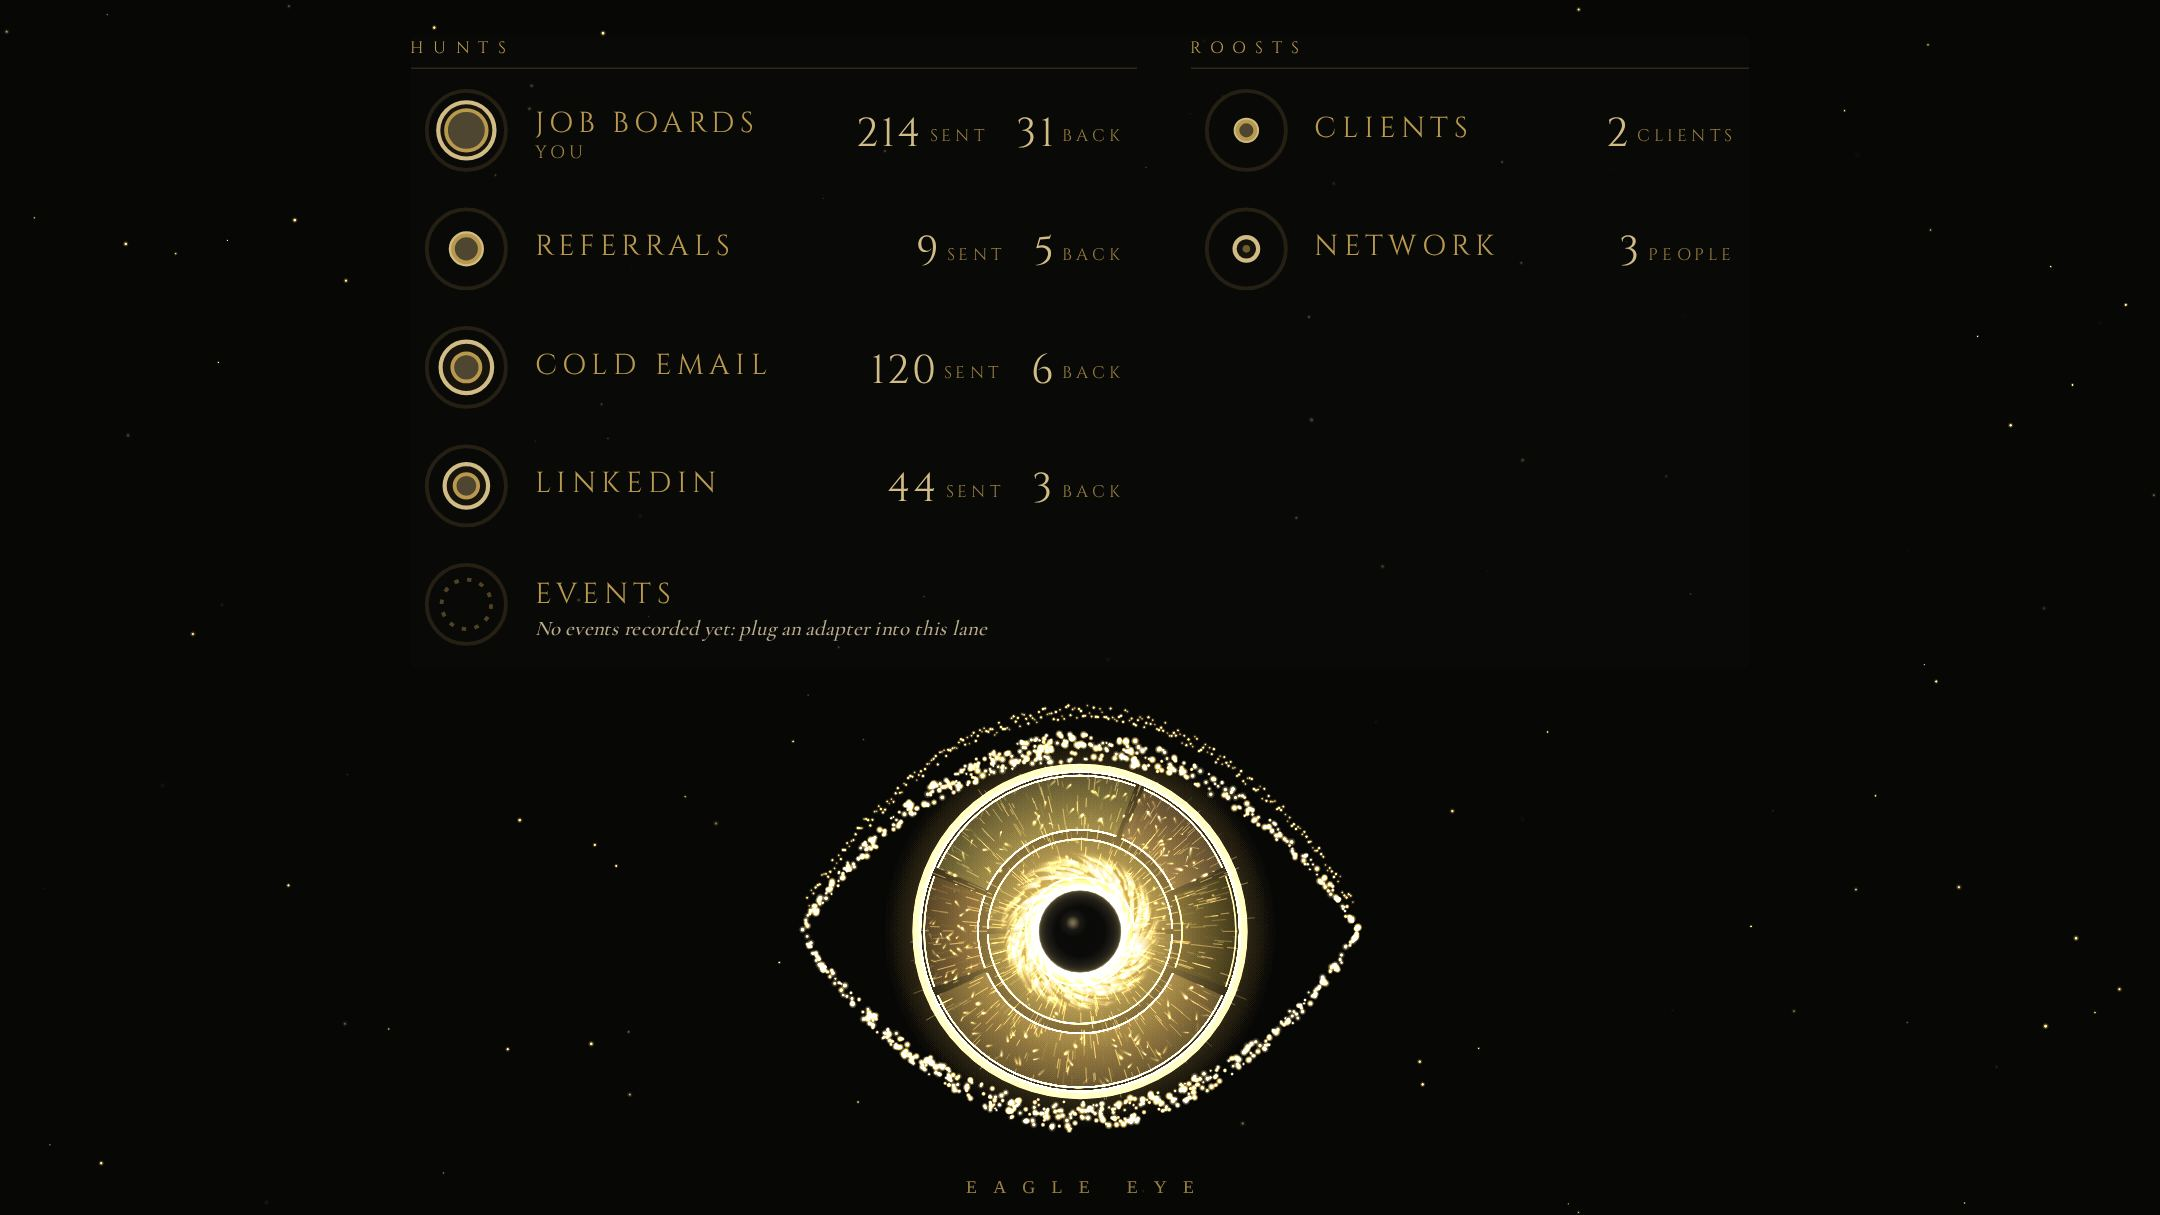
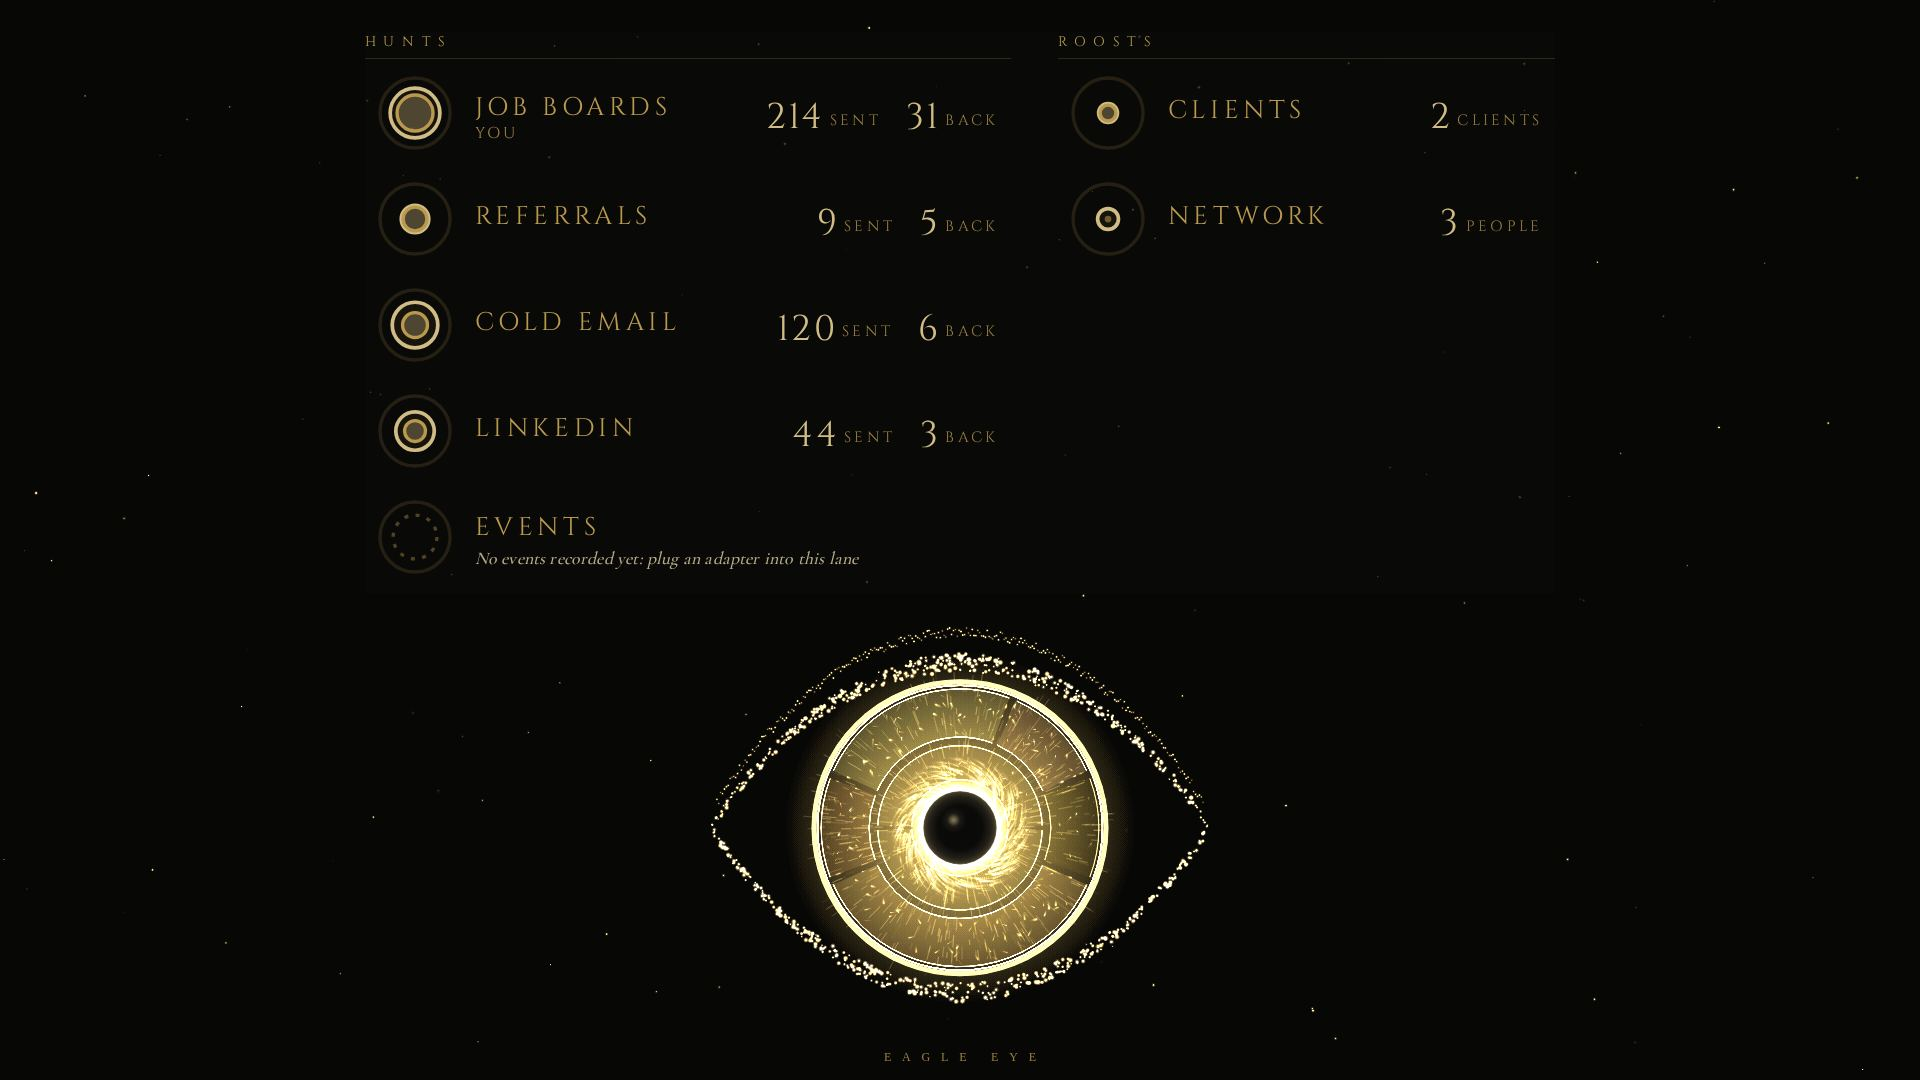
site r3: scroll cue on GSAP, demo rendered at 1920x1080 and scaled so lanes flank the eye, brighter sand pupil, lining figures, footer contrast, OG image
Claude-Session: https://claude.ai/code/session_01FToiXZenbqkdirSTZ3T83Q

diff --git a/site/styles.css b/site/styles.css
@@ -130,8 +130,7 @@ h1 {
 .hero-ctas { margin-top: 22px; display: flex; flex-wrap: wrap; justify-content: center; gap: 12px; }
 .fine { margin: 18px 0 0; font-family: var(--display); font-size: var(--label); letter-spacing: 0.28em; text-transform: uppercase; color: var(--text-dim); }
 .scroll-cue { position: absolute; left: 50%; bottom: 18px; translate: -50% 0; width: 44px; height: 44px; display: grid; place-items: center; }
-.scroll-cue span { width: 1px; height: 30px; background: linear-gradient(var(--gold), transparent); animation: cue 2.4s var(--ease) infinite; transform-origin: top; }
-@keyframes cue { 0% { transform: scaleY(0); opacity: 1; } 70% { transform: scaleY(1); opacity: 1; } 100% { transform: scaleY(1); opacity: 0; } }
+.scroll-cue span { width: 1px; height: 30px; background: linear-gradient(var(--gold), transparent); transform-origin: top; }
 
 /* ── shared section type ───────────────────────── */
 section:not(.hero) { padding: clamp(80px, 12vw, 150px) var(--gutter) 0; max-width: calc(var(--max) + 2 * var(--gutter)); margin: 0 auto; }
@@ -157,8 +156,10 @@ h3 { margin: 0; font-family: var(--display); font-weight: 500; font-size: 1.12re
 .tick.bl { bottom: 0; left: 0; border-bottom-width: 1px; border-left-width: 1px; }
 .tick.br { bottom: 0; right: 0; border-bottom-width: 1px; border-right-width: 1px; }
 .frame-inner { position: relative; aspect-ratio: 16 / 9; background: var(--ink) url(/assets/demo-1440.jpg) center / cover no-repeat; overflow: hidden; }
-.frame-inner iframe { position: absolute; inset: 0; width: 100%; height: 100%; border: 0; display: block; background: var(--ink); opacity: 0; transition: opacity 0.8s var(--ease); color-scheme: dark; }
+.frame-inner iframe { position: absolute; top: 0; left: 0; width: 100%; height: 100%; transform-origin: 0 0; border: 0; display: block; background: var(--ink); opacity: 0; transition: opacity 0.8s var(--ease); color-scheme: dark; }
 .frame-inner iframe.loaded { opacity: 1; }
+/* desktop: render the demo at 1920x1080 and scale it down, so lanes flank the eye as on a wall */
+@media (min-width: 761px) { .frame-inner iframe { width: 1920px; height: 1080px; transform: scale(var(--demo-scale, 0.6)); } }
 figcaption { display: flex; flex-wrap: wrap; justify-content: space-between; align-items: baseline; gap: 10px 24px; padding: 18px 4px 0; color: var(--text-dim); font-size: 1.05rem; }
 figcaption b { color: var(--gold); font-weight: 500; }
 .screens { margin: 34px 0 0; display: flex; flex-wrap: wrap; align-items: center; justify-content: center; gap: 10px 16px; font-family: var(--display); font-size: var(--label); letter-spacing: 0.3em; text-transform: uppercase; color: var(--gold); }
@@ -193,7 +194,7 @@ figcaption b { color: var(--gold); font-weight: 500; }
 .stats { margin: clamp(40px, 6vw, 72px) 0 0; display: grid; grid-template-columns: repeat(4, minmax(0, 1fr)); gap: 24px; }
 .stat { display: flex; flex-direction: column-reverse; align-items: center; gap: 6px; }
 .stat dt { text-wrap: balance; font-family: var(--display); font-size: var(--label); letter-spacing: 0.26em; text-transform: uppercase; color: var(--text-dim); }
-.stat dd { margin: 0; font-family: var(--display); font-size: clamp(2.6rem, 1.8rem + 3vw, 4.4rem); line-height: 1; color: var(--gold); text-shadow: 0 0 32px rgba(217,179,91,0.35); }
+.stat dd { font-variant-numeric: lining-nums tabular-nums; margin: 0; font-family: var(--display); font-size: clamp(2.6rem, 1.8rem + 3vw, 4.4rem); line-height: 1; color: var(--gold); text-shadow: 0 0 32px rgba(217,179,91,0.35); }
 number-flow { --number-flow-char-height: 1em; }
 
 /* ── footer ────────────────────────────────────── */
@@ -201,7 +202,7 @@ number-flow { --number-flow-char-height: 1em; }
 .foot nav { display: flex; flex-wrap: wrap; gap: 4px 26px; }
 .foot nav a { font-family: var(--display); font-size: 0.74rem; letter-spacing: 0.18em; text-transform: uppercase; color: var(--text-dim); min-height: 44px; display: inline-flex; align-items: center; transition: color 0.2s; }
 .foot nav a:hover { color: var(--gold-bright); }
-.foot p { flex-basis: 100%; margin: 0; color: var(--gold-dim); font-size: 0.95rem; }
+.foot p { flex-basis: 100%; margin: 0; color: var(--text-dim); font-size: 0.95rem; }
 
 /* ── reveal (GSAP sets the start state; without JS everything is visible) ── */
 .js .reveal { opacity: 0; }
@@ -231,6 +232,5 @@ number-flow { --number-flow-char-height: 1em; }
 }
 
 @media (prefers-reduced-motion: reduce) {
-  .scroll-cue span { animation: none; }
   .js .reveal { opacity: 1; }
 }

diff --git a/site/eye.js b/site/eye.js
@@ -46,9 +46,11 @@ const VERT = /* glsl */`
   uniform float uScale, uTime, uProgress, uBlink, uDisperse, uDpr, uBoost;
   varying float vAlpha;
   varying float vSeed;
+  varying float vPupil;
   void main() {
     vec2 p;
     vSeed = aSeed;
+    vPupil = aType > 0.5 && aType < 1.5 ? 1.0 : 0.0;
     if (aType > 1.5) {
       // ambient dust: drifts up through the hero
       float H = uRes.y + 40.0;
@@ -72,7 +74,7 @@ const VERT = /* glsl */`
       vec2 dir = normalize(t + vec2(0.001, 0.001));
       p += dir * uDisperse * (40.0 + aSeed * 320.0) + vec2(0.0, -uDisperse * aSeed * 160.0);
       float tw = 0.6 + 0.4 * sin(uTime * 2.2 + aSeed * 90.0);
-      vAlpha = mix(0.12, 1.0, d) * tw * (1.0 - uDisperse * 0.85) * (aType > 0.5 ? 1.25 : 1.0);
+      vAlpha = mix(0.12, 1.0, d) * tw * (1.0 - uDisperse * 0.85) * (aType > 0.5 ? 1.5 : 1.15);
       gl_PointSize = (1.2 + aSeed * 2.0) * uDpr * clamp(uScale / 3.0, 0.75, 1.25) * uBoost;
     }
     gl_Position = vec4(p.x / uRes.x * 2.0 - 1.0, 1.0 - p.y / uRes.y * 2.0, 0.0, 1.0);
@@ -82,6 +84,7 @@ const FRAG = /* glsl */`
   precision mediump float;
   varying float vAlpha;
   varying float vSeed;
+  varying float vPupil;
   void main() {
     vec2 c = gl_PointCoord - 0.5;
     float r = length(c);
@@ -90,7 +93,8 @@ const FRAG = /* glsl */`
     vec3 gold = vec3(0.851, 0.702, 0.357);
     vec3 bright = vec3(0.98, 0.90, 0.66);
     vec3 pearl = vec3(0.81, 0.85, 1.0);
-    vec3 col = mix(gold, bright, smoothstep(0.55, 1.0, vSeed));
+    vec3 col = mix(gold, bright, smoothstep(0.45, 1.0, vSeed));
+    col = mix(col, vec3(1.0, 0.96, 0.84), vPupil * 0.55);
     col = mix(col, pearl, step(0.975, vSeed) * 0.7);
     gl_FragColor = vec4(col * a, a);
   }
@@ -100,7 +104,7 @@ export function mountEye({ canvas, slot, hero, gsap, ScrollTrigger, reduced }) {
   const renderer = new THREE.WebGLRenderer({ canvas, antialias: false, alpha: true, preserveDrawingBuffer: true, powerPreference: 'high-performance' });
   renderer.setClearColor(0x000000, 0);
   const phone = Math.min(innerWidth, innerHeight) < 600;
-  const N = phone ? 5000 : 9000;
+  const N = phone ? 5600 : 11000;
   const DUST = phone ? 260 : 620;
   const pts = sampleMark(N);
 
@@ -142,7 +146,6 @@ export function mountEye({ canvas, slot, hero, gsap, ScrollTrigger, reduced }) {
   const scene = new THREE.Scene();
   scene.add(points);
   const camera = new THREE.Camera();
-  window.__eagleEye = u;
 
   let maxDpr = 1.5, sizedW = 0, sizedDpr = 0;
   function layout() {

diff --git a/site/main.js b/site/main.js
@@ -41,6 +41,8 @@ fetch('https://api.github.com/repos/utopia-models/eagle-eye', { headers: { Accep
 // ── the demo runs only while it is near the screen (its own eye is a live canvas) ──
 const demo = document.querySelector('iframe[data-src]');
 if (demo) {
+  const fit = () => demo.parentElement.style.setProperty('--demo-scale', String(demo.parentElement.clientWidth / 1920));
+  fit(); addEventListener('resize', fit);
   demo.addEventListener('load', () => demo.classList.toggle('loaded', demo.src !== 'about:blank' && !!demo.getAttribute('src')));
   new IntersectionObserver(([e]) => {
     if (e.isIntersecting) { if (!demo.src || demo.src === 'about:blank') demo.src = demo.dataset.src; }
@@ -87,6 +89,11 @@ if (!gsap || !ScrollTrigger) {
         .from('.hero .lead, .hero .install, .hero-ctas, .hero .fine, .scroll-cue',
           { autoAlpha: 0, y: 18, filter: 'blur(8px)', duration: 0.9, ease: 'power3.out', stagger: 0.09, clearProps: 'filter' }, '-=0.7');
     });
+
+    // the scroll cue draws down and fades, on a loop
+    gsap.timeline({ repeat: -1, delay: 2.4 })
+      .fromTo('.scroll-cue span', { scaleY: 0, autoAlpha: 1 }, { scaleY: 1, duration: 1.6, ease: 'power3.out' })
+      .to('.scroll-cue span', { autoAlpha: 0, duration: 0.7, ease: 'power1.in' });
 
     // section reveals (IntersectionObserver triggers, GSAP animates)
     const io = new IntersectionObserver((entries) => {
